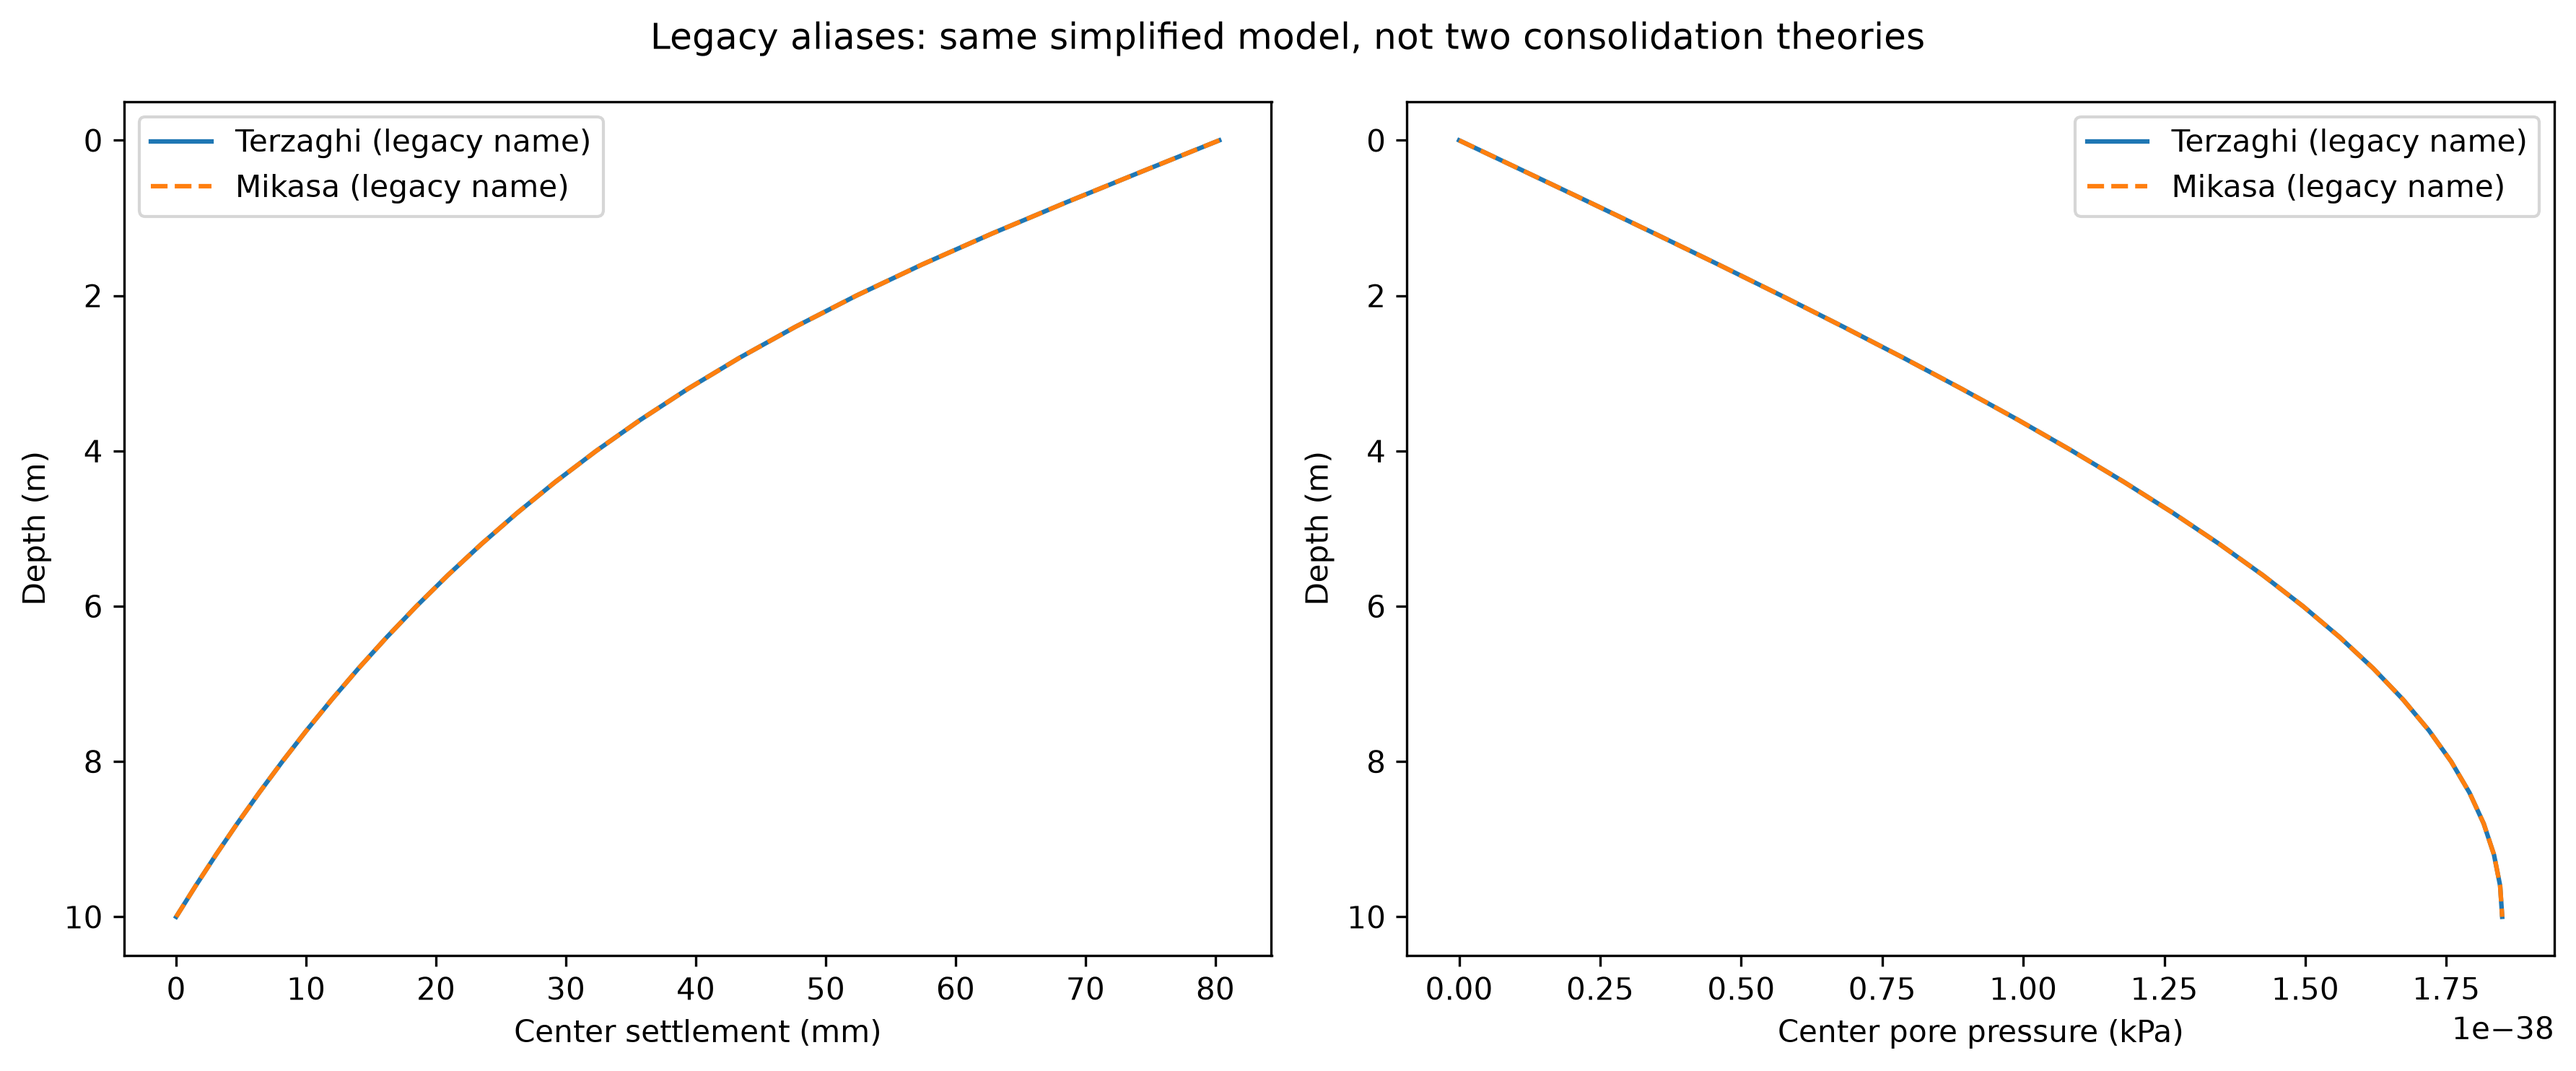
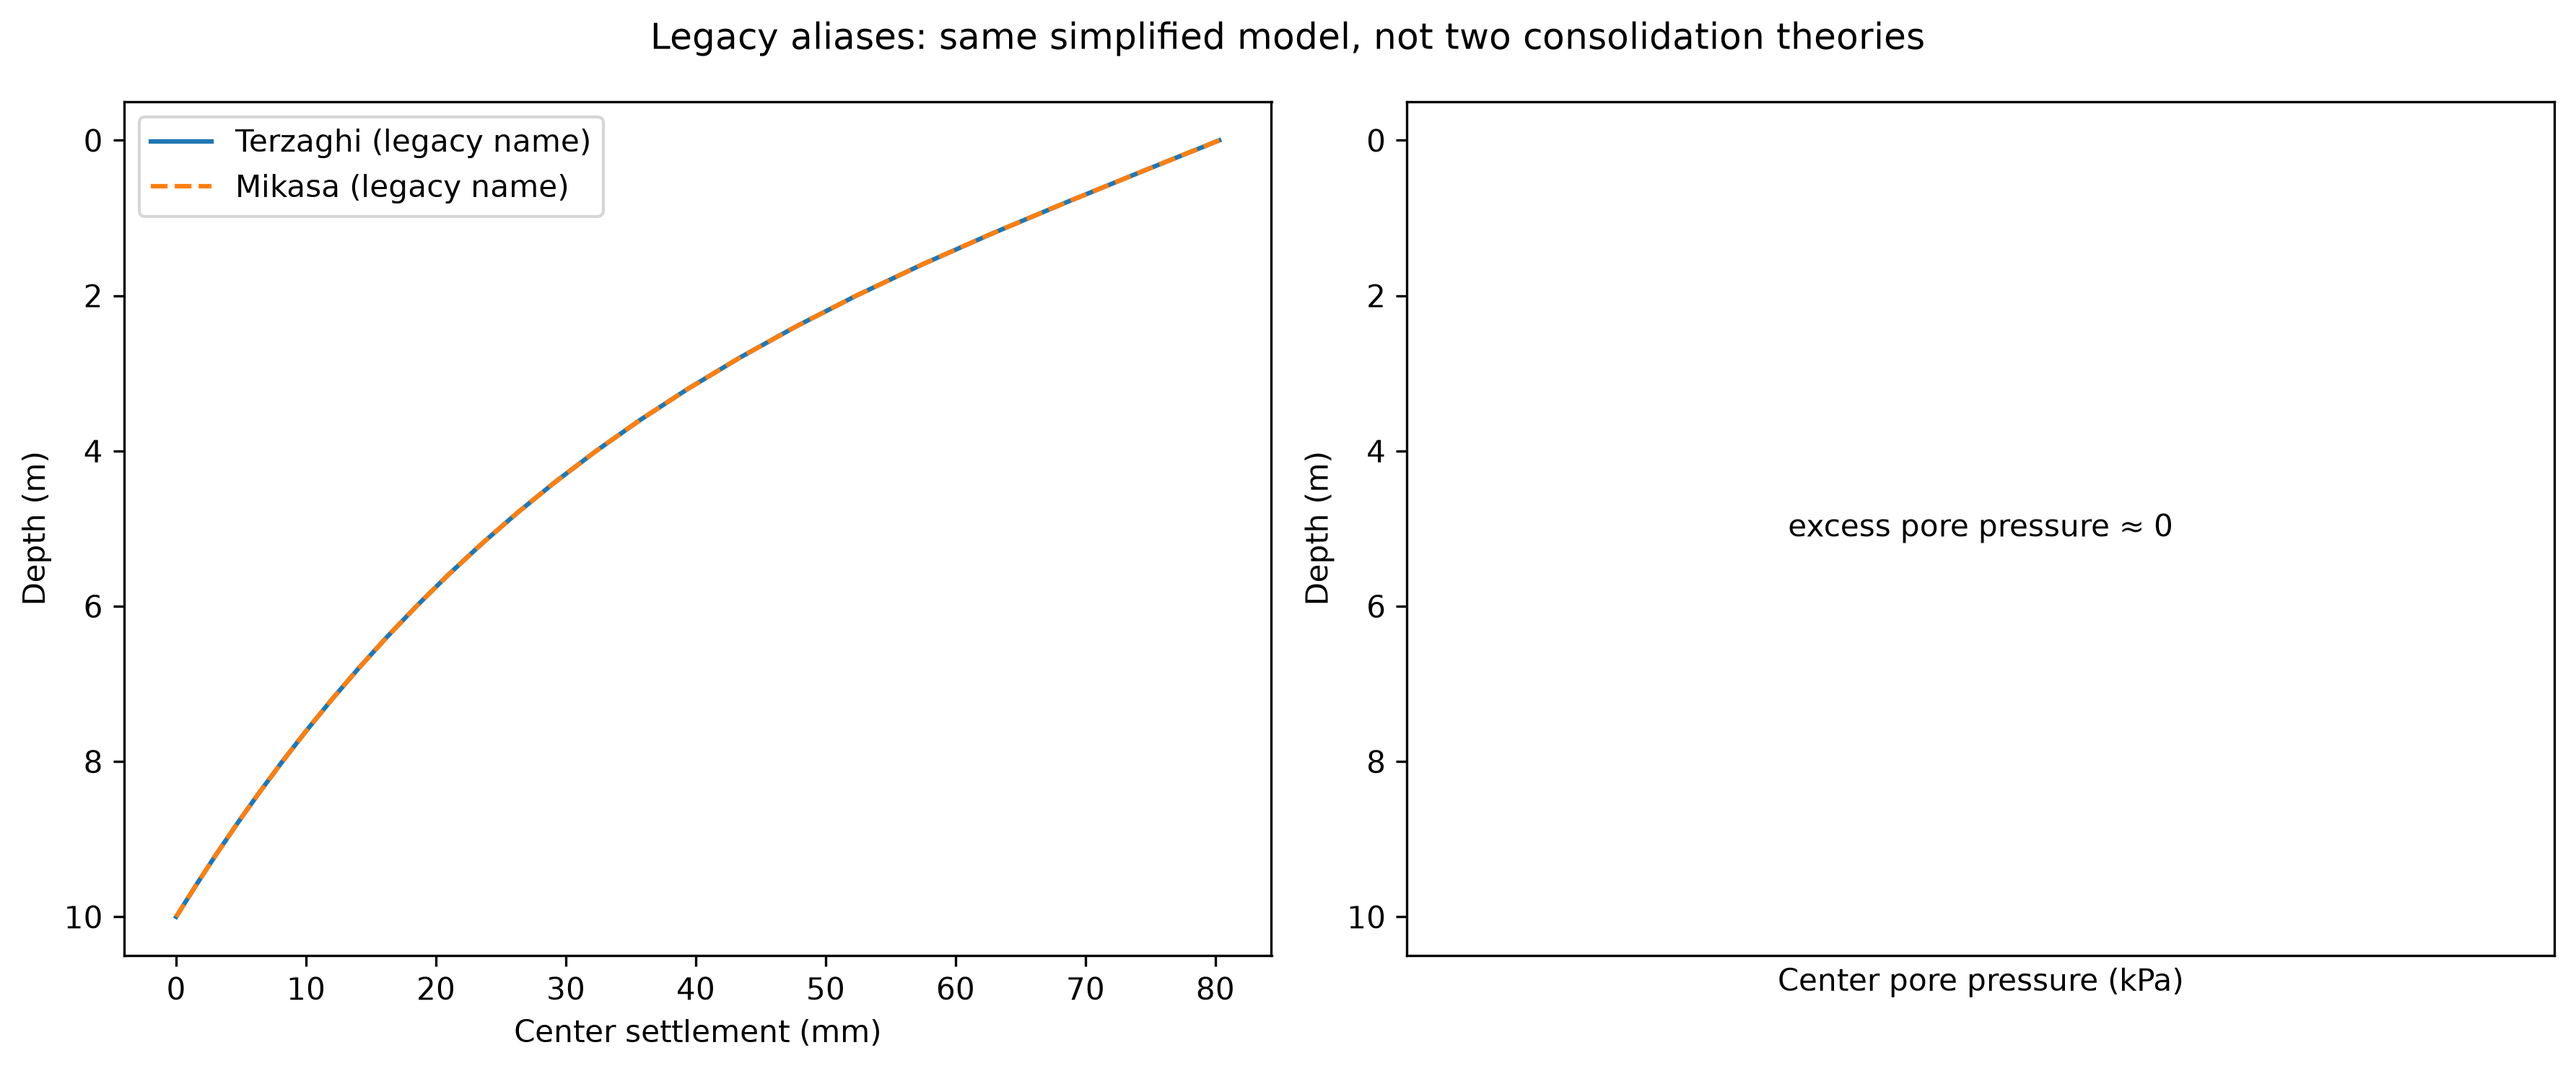
画像の零場・一定場を丸め誤差のカラーバーで描かない (#13)
一定の場は値を注記し、荷重・層厚に対して無視できる場は色で表さず
「≈0」と最大値を示す。比較画像も消散済みの水圧系列を軸に描かない。

Refs #7

diff --git a/Terzaghi.py b/Terzaghi.py
@@ -4,23 +4,38 @@ import matplotlib.pyplot as plt
 import numpy as np
 
 from consolidation import ConsolidationSimulator as TerzaghiConsolidationSimulator
-from consolidation import run_example
+from consolidation import is_negligible_field, run_example
 
 
 def plot_comparison(terzaghi_sim, mikasa_sim):
     """旧比較API。異なる理論の比較ではなく、渡された2状態を描画する。"""
+    simulators = ((terzaghi_sim, "Terzaghi (legacy name)", "-"),
+                  (mikasa_sim, "Mikasa (legacy name)", "--"))
+    load_scale = max(float(simulator.total_stress.max()) for simulator, _, _ in simulators)
+    pressure_visible = any(not is_negligible_field(simulator.u, load_scale)
+                           for simulator, _, _ in simulators)
     fig, axes = plt.subplots(1, 2, figsize=(12, 5))
-    for simulator, label, style in ((terzaghi_sim, "Terzaghi (legacy name)", "-"),
-                                    (mikasa_sim, "Mikasa (legacy name)", "--")):
+    for simulator, label, style in simulators:
         settlement, _, pressure, _ = simulator.get_current_state()
         z = np.linspace(0, simulator.depth, simulator.nz)
         center = simulator.nx // 2
         axes[0].plot(settlement[:, center] * 1000, z, style, label=label)
-        axes[1].plot(pressure[:, center], z, style, label=label)
-    for ax, title in zip(axes, ("Center settlement (mm)", "Center pore pressure (kPa)")):
-        ax.set(xlabel=title, ylabel="Depth (m)")
+        if pressure_visible:
+            axes[1].plot(pressure[:, center], z, style, label=label)
+    if pressure_visible:
+        axes[1].legend()
+    else:
+        # 消散済みの水圧を丸め誤差の軸で描かない。
+        axes[1].text(0.5, 0.5, "excess pore pressure ≈ 0", transform=axes[1].transAxes,
+                     ha="center", va="center")
+        axes[1].set_xticks([])
+    axes[0].set(xlabel="Center settlement (mm)", ylabel="Depth (m)")
+    axes[1].set(xlabel="Center pore pressure (kPa)", ylabel="Depth (m)")
+    for ax in axes:
         ax.invert_yaxis()
-        ax.legend()
+    axes[0].legend()
+    if not pressure_visible:
+        axes[1].set_ylim(axes[0].get_ylim())
     fig.suptitle("Legacy aliases: same simplified model, not two consolidation theories")
     fig.tight_layout()
     try:

diff --git a/consolidation.py b/consolidation.py
@@ -21,6 +21,11 @@ def _weighted_modes(matrix, weights):
     return rates, basis
 
 
+def is_negligible_field(values, reference):
+    """基準量に対して無視できる場か。色の濃淡で表さない判定に使う。"""
+    return bool(np.max(np.abs(values)) < 1e-9 * reference)
+
+
 def _validate_scalars(positive, nonnegative):
     for name, value in positive.items():
         if not math.isfinite(value) or value <= 0:
@@ -169,11 +174,24 @@ class ConsolidationSimulator:
         z = np.linspace(0, self.depth, self.nz)
         fig, axes = plt.subplots(1, 3, figsize=figsize)
         fields = (self.disp_z, self.disp_x, self.u)
+        references = (self.depth, self.depth, self.load_intensity)
         titles = ("Settlement (fixed base)", "Horizontal displacement (constrained)", "Excess pore pressure")
         units = ("m", "m", "kPa")
-        for ax, field, title, unit in zip(axes, fields, titles, units):
-            contour = ax.contourf(x, z, field, levels=50)
-            fig.colorbar(contour, ax=ax, label=unit)
+        for ax, field, reference, title, unit in zip(axes, fields, references, titles, units):
+            if np.ptp(field) == 0:
+                # 一定の場は丸め誤差の等値線とカラーバーを作らず、値だけを示す。
+                ax.text(0.5, 0.5, f"{field.flat[0]:.3g} {unit} everywhere",
+                        transform=ax.transAxes, ha="center", va="center")
+                ax.set_xticks([])
+                ax.set_yticks([])
+            elif is_negligible_field(field, reference):
+                ax.text(0.5, 0.5, f"≈0 (max {np.max(np.abs(field)):.3g} {unit})",
+                        transform=ax.transAxes, ha="center", va="center")
+                ax.set_xticks([])
+                ax.set_yticks([])
+            else:
+                contour = ax.contourf(x, z, field, levels=50)
+                fig.colorbar(contour, ax=ax, label=unit)
             ax.set(xlabel="Distance (m)", ylabel="Depth (m)", title=title)
             ax.invert_yaxis()
         fig.tight_layout()

diff --git a/test_consolidation.py b/test_consolidation.py
@@ -13,7 +13,7 @@ matplotlib.use("Agg")
 import matplotlib.pyplot as plt
 import numpy as np
 
-from consolidation import ConsolidationSimulator
+from consolidation import ConsolidationSimulator, is_negligible_field
 from Mikasa import MikasaConsolidationSimulator
 from Terzaghi import TerzaghiConsolidationSimulator
 
@@ -173,6 +173,21 @@ class ConsolidationTests(unittest.TestCase):
                          "terzaghi_mikasa_comparison.png"):
                 self.assertEqual(plt.imread(Path(directory) / name).ndim, 3)
         self.assertEqual(plt.get_fignums(), [])
+
+    def test_negligible_field_detection_uses_the_reference_scale(self):
+        self.assertTrue(is_negligible_field(np.zeros((3, 4)), 100))
+        self.assertTrue(is_negligible_field(np.full((3, 4), 1e-38), 100))
+        self.assertFalse(is_negligible_field(np.full((3, 4), 1.0), 100))
+        self.assertFalse(is_negligible_field(np.full((3, 4), 1e-6), 100))
+
+    def test_plot_results_renders_both_live_and_dissipated_fields(self):
+        for total_time in (0.1, 1e5):
+            with self.subTest(total_time=total_time), tempfile.TemporaryDirectory() as directory:
+                simulator = ConsolidationSimulator(nx=5, nz=5, total_time=total_time)
+                simulator.run_simulation(verbose=False)
+                simulator.plot_results(save_path=Path(directory) / "field.png", show=False, dpi=30)
+                self.assertTrue((Path(directory) / "field.png").is_file())
+                self.assertEqual(plt.get_fignums(), [])
 
     def test_plot_is_closed_when_output_directory_is_missing(self):
         simulator = ConsolidationSimulator(nx=3, nz=3, total_time=0.1)

diff --git a/README.md b/README.md
@@ -98,7 +98,7 @@ $$
 - `get_current_state()`: 沈下、水平変位、水圧、鉛直ひずみの順で、NumPy配列のコピーを返します。
 - `get_consolidation_degree()`: 初期の境界条件適用後の水圧積分に対する消散率[%]です。沈下量に基づく圧密度とは区別します。初期水圧積分が0なら100%とします。
 - `reset()`: 初期水圧・ひずみ・変位を復元します。
-- `plot_results(save_path=None, show=True, figsize=(18, 5), dpi=300)`: 沈下・水平変位・水圧を描画します。保存・表示後には図を閉じます。
+- `plot_results(save_path=None, show=True, figsize=(18, 5), dpi=300)`: 沈下・水平変位・水圧を描画します。保存・表示後には図を閉じます。値が一定、または荷重・層厚に対して無視できる場は、丸め誤差のスケールをカラーバーにせず、値をパネル内に注記します。
 
 生成後に格子・材料・時間・荷重条件を変更するときは、新しいインスタンスを作ってください。一定係数の固定格子を前提とした解法なので、時間変動荷重、不均一な透水性、間隙比依存の材料則、大変形にはそのまま適用できません。実地盤への適合性・設計精度は検証していません。
 
